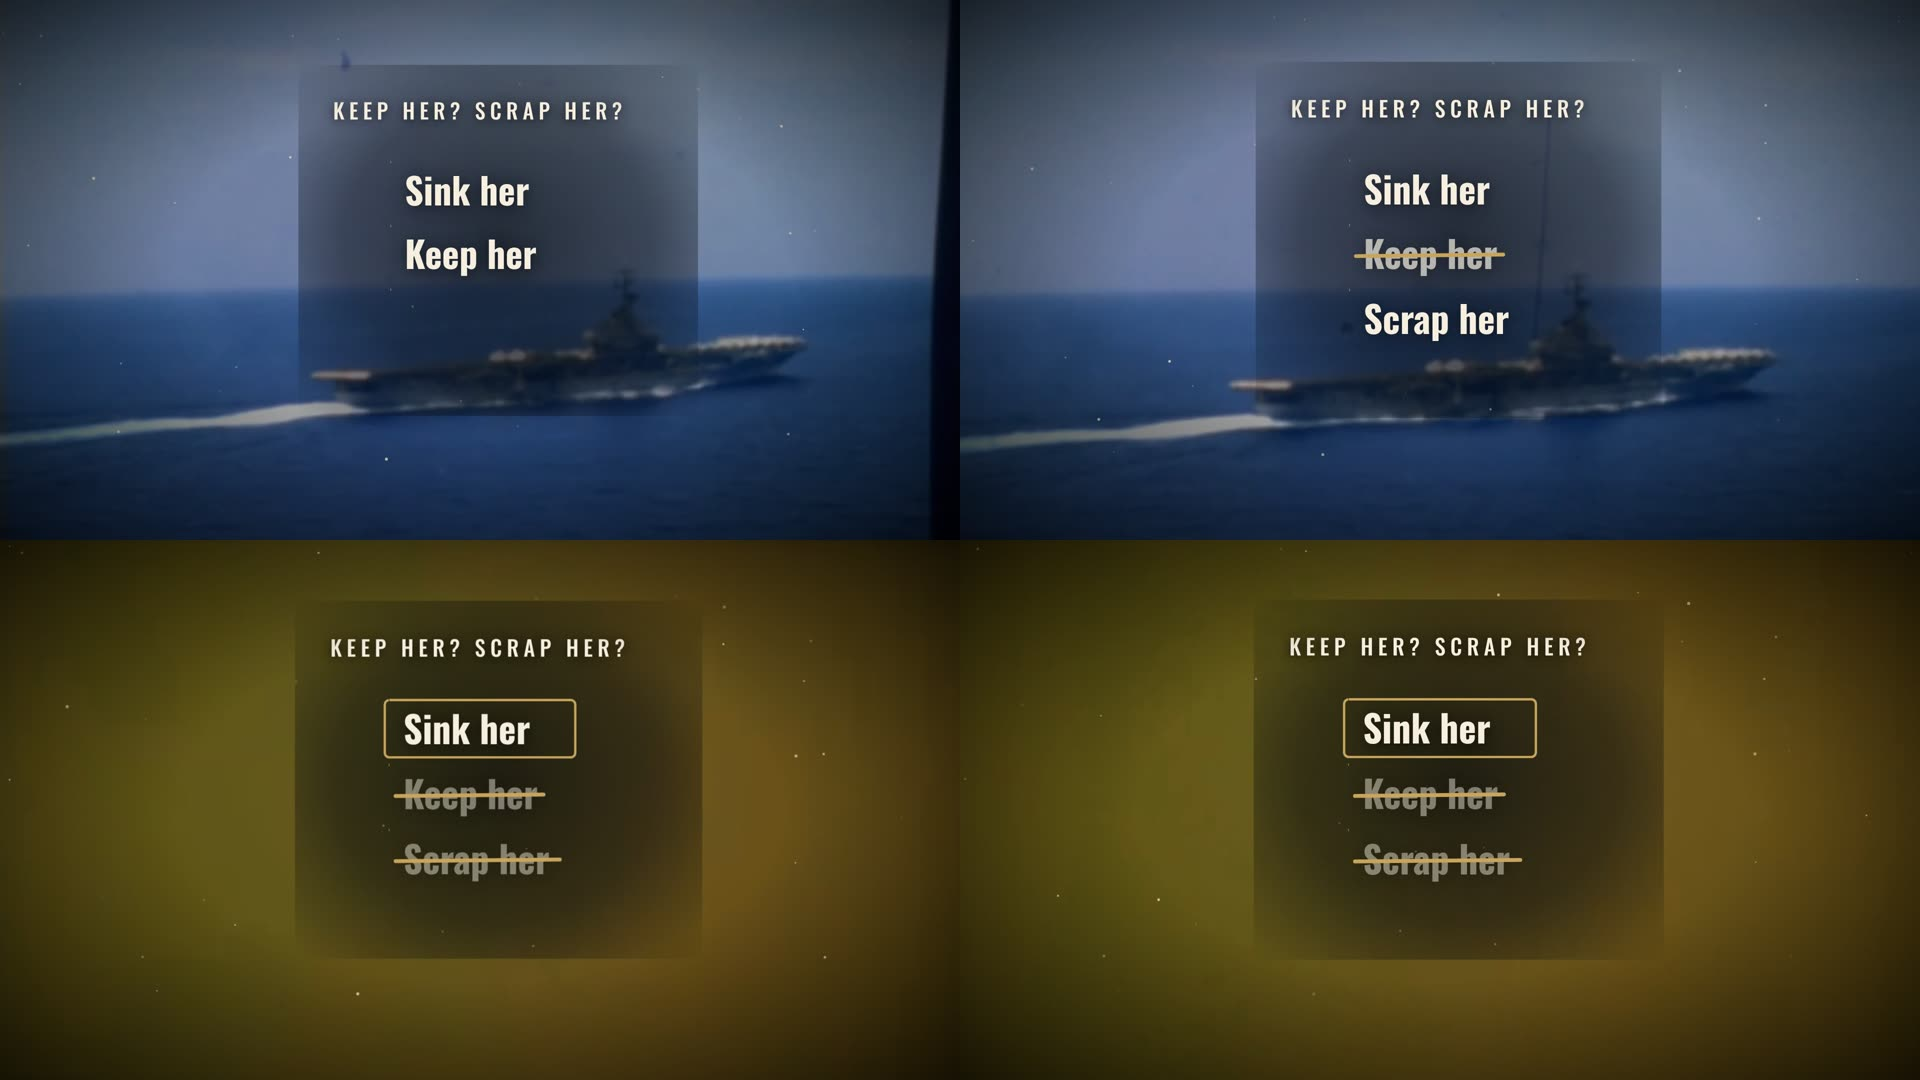
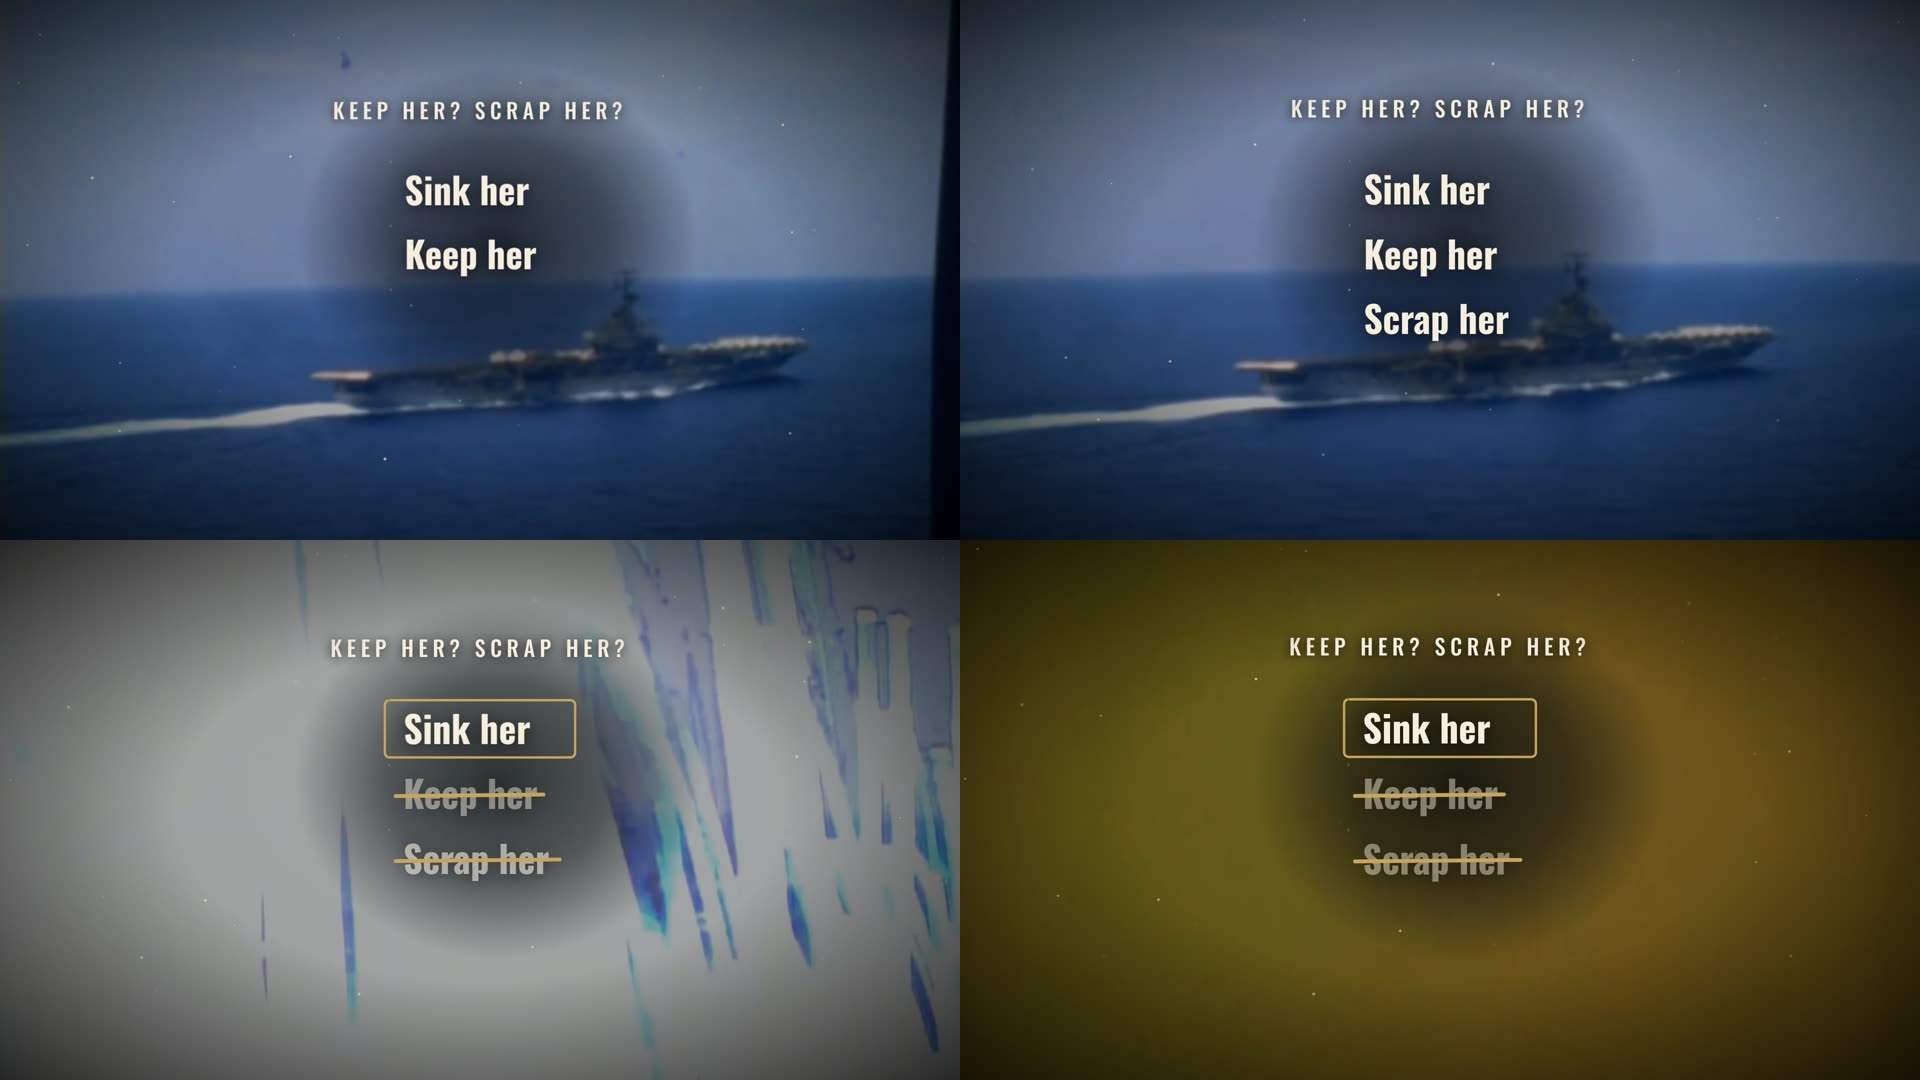
Options board: gold box only on the chosen row, held >= 1.5 s; no box on struck rows; no stray underline; scrim over moving bg clips
New item flag "chosen": the box lands after the last strike and holds to the shot end
(moved earlier with a warning if it would hold < 1.5 s). Title hairline is opt-in (hair:true).
Preview: kit/ship/preview/blocks/options_board_sheet.jpg (test chapter options_test.json).

Claude-Session: https://claude.ai/code/session_011uJnjASu3ekbFStPCneELr

diff --git a/templates/blocks/anim_options.py b/templates/blocks/anim_options.py
@@ -146,8 +146,8 @@ def build(ctx):
         elif it.get('chosen'):
             bat = ctx.t(box) if box is not None else max(at + .3, (last_strike + .4) if last_strike is not None else at + .3)
             if b - bat < 1.5:
-                early = max(at + .2, b - 1.5)
-                ctx.B.warn.append(f'{p}: chosen row "{it["text"]}" box would hold only {b - bat:.2f}s (< 1.5 s); moved to {early:.2f}s' + ('' if early <= b - 1.5 + 1e-6 else ' - still short: lengthen the shot'))
+                early = max(at + .2, (last_strike + .15) if last_strike is not None else 0, b - 1.5)
+                ctx.B.warn.append(f'{p}: chosen row "{it["text"]}" box would hold only {b - bat:.2f}s (< 1.5 s); moved to {early:.2f}s' + ('' if early <= b - 1.5 + 1e-6 else ' - still short: lengthen the shot or strike earlier'))
                 bat = early
         elif chosen:
             bat = None                       # another row is the answer: no box here

diff --git a/templates/TEMPLATES.md b/templates/TEMPLATES.md
@@ -195,7 +195,8 @@ Variants: `sea`, `ice`
 |---|---|
 | `beats` | list of beats: {"kind":"you","label":"you","label_at":T} / {"kind":"items","at":T,"items":[{"icon":"boat","label":"NO BOAT","at":T}]} / {"kind":"distance","at":T,"label":"100 yards","label_at":T}. "at" = when the beat (a cut + zoom) starts. Icons: boat, wetsuit, lifering, bottle, flame, phone, fish, rope, hand ... |
 | `cross` | items: draw a gold X on each item 0.3 s later (default true) |
-| `shore_label` | ice variant: text on the ice edge (default "ICE") |
+| `shore_label` | text on the pale shore (default "ICE") |
+| `shore` | "palm" (sea default: warm island) or "ice" (pale cold shore with shore_label; ice default). Use "ice" for any cold or inland scene: no palm trees in the Ice Age |
 
 ## scale_ruler
 
@@ -249,16 +250,21 @@ Variants: `roadmap`, `drop`, `final`, `final_wide`
 | `tiles` | roadmap: list of {"name":"North Atlantic","image":"thumb.jpg"} - every chapter, in order (image optional) |
 | `placed` | tiles already on the board: list of {"name","image","tier"} |
 | `reveal_at` | roadmap: time spec of the first tile (default 0.5 s) |
+| `glow` | roadmap: {"name":"Southern Ocean","at":T} - that tile gets a gold ring and lifts on its word (join.md: the next ocean glows on "south") |
 | `stagger` | roadmap: seconds between tiles (default 0.18), or give "reveal_times": [specs] |
 | `reveal_times` | roadmap: one time spec per tile |
 | `tile` | drop: {"name":"North Atlantic","image":"thumb.jpg"} |
 | `tier` | drop: tier the tile lands in (e.g. "Minutes") |
 | `drop_at` | drop: time spec of the verdict word (the thud) |
+| `note` | drop: small italic line next to the landed tile, e.g. "*in the water" |
+| `note_at` | drop: when the note shows (default 0.5 s after the drop) |
 | `slot_x` | drop: x of the landing spot (default: next free place in the row) |
 | `cursor` | drop: show the cursor (default true) |
 | `n_total` | drop: total chapters, picks the compact board when more than 6 (default 5) |
 | `add_tier_at` | drop: time spec. A new tier row (the FIRST entry of "tiers", or "new_tier") slides in on top of the board at this moment, then the tile drops into it (gap T2: the "Days" row at chapter 9). Pass "tiers" with the new tier first. |
 | `new_tier` | drop: name of the tier that slides in (default: first of "tiers") |
+| `verdict` | drop: big verdict word shown on the drop (about 12 % of frame height, Cormorant, warm white, gold underline; style review 04/07) |
+| `sting` | drop: "full" = music dips out 0.8 s before the word, riser, deep hit on the word (4 key verdicts only); "thud" = deep hit only (default when verdict is set) |
 | `highlight_row` | final: tier name whose row glows gold (default none) |
 | `highlight_at` | final: when the row glows (default 0.4 s) |
 | `highlight_tiles` | final: list of {"name":"Bering Sea","at":T} - the tile lifts and gets a gold ring on its word, soft click; stays lifted |
@@ -275,13 +281,15 @@ Variants: `baked`, `labeled`, `gauge`
 
 | parameter | what it does |
 |---|---|
-| `pin` | {"x":640,"y":330}  pin position in the 1280x720 picture (labeled variant) |
+| `pin` | {"x":640,"y":330,"track":[[t,x,y],...]}  pin position in the 1280x720 picture (labeled variant); track = positions over the clip seconds when the bake moves (Video 02 map jsons) |
 | `name` | place name, e.g. "North Atlantic" |
 | `name_at` | when the pin + name appear (time spec) |
 | `date` | bottom line, e.g. "LAST GLACIAL MAXIMUM · SEA LEVEL -120 M" (every variant) |
 | `date_at` | when the bottom line shows |
 | `gauge` | {"from":0,"to":-120,"at":"@four","dur":1.7,"x":930,"y":120,"label_ft":"(-400 ft)"}  sea-level gauge (gauge variant) |
 | `credits` | small credits line bottom right (default none; maps baked by the map-kit already have it) |
+| `pins` | [{"x":246,"y":240,"x0":251,"y0":245,"label":"","at":T}] many small gold pins that drift with the bake (pins_dur = bake seconds) |
+| `pins_dur` | seconds the pins take to drift from x0,y0 to x,y (default: the shot) |
 | `zoom` | [from,to] slow zoom, default [1.0,1.0] (the baked map already moves) |
 | `measure` | {"from":{"x":640,"y":210},"to":{"x":640,"y":520},"label":"1,000 km","at":"@thousand","dur":0.9,"label_side":"right"}  gold measure bar that draws between two points on a word (gap T8) |
 | `inset` | {"pin":{"lat":20,"lon":38.5},"corner":"tl"/"tr"/"bl"/"br","w":300,"at":0.3,"label":"ICE AGE ICE SHEETS"}  small world map with the Ice Age ice sheets and a gold pin on the place (rule 18, gap T10); for places far from the ice |
@@ -322,6 +330,7 @@ Variants: `question`, `card`, `end_screen`
 | `thanks` | end_screen: italic line on top (default "Thanks for watching") |
 | `subscribe` | end_screen: caps label under the subscribe circle (default "SUBSCRIBE") |
 | `fade_s` | end_screen: fade to black at the end, seconds (default 1.2) |
+| `slots` | end_screen: false = no video slots, only the thanks line and the subscribe circle in the middle (default true) |
 | `end_screen_s` | ignored (kept for old plans): use a separate end_screen shot |
 
 ## text_card
@@ -347,3 +356,209 @@ Variants: `word`, `pair`, `line`, `number`, `number_left`
 | `subline_at` | number: when the subline appears |
 | `count` | number: {"from":0,"to":-1.8,"decimals":1,"dur":1.2,"suffix":"°C"} counting number |
 | `dim` | number: dark shade "dk" (default) or "lt" |
+
+## anim_gauge
+
+Count-up gauge on green ink. "bars" = 2-4 horizontal bars (e.g. you vs the animal), each with an icon / line-art / image and a label; the hero bar (last, or "hero":true) counts ~1.4 s and lands with flash + gold ring + deep hit. "meter" = one tall meter with reference marks (e.g. conversation / jet engine) that fills to the value and lands the same way.
+
+Variants: `bars`, `meter`
+
+
+| parameter | what it does |
+|---|---|
+| `kicker` | small caps title top left, *word* = gold italic (e.g. "Bite force") |
+| `kicker_at` | when the kicker shows (default 0.2) |
+| `unit` | italic unit after every number (e.g. "psi") |
+| `decimals` | decimals of the numbers (default 0) |
+| `max` | value at the full bar / meter top (default: largest value) |
+| `items` | bars: [{"label":"YOU","value":160,"glyph":{"person":"you"} / {"shape":"croc"} / {"icon":"hand"} / {"image":"path.png"},"at":T,"count_at":T,"dur":1.4,"hero":true}] |
+| `value` | meter: the value counted to |
+| `label` | meter: caps label under the big number |
+| `glyph` | meter: optional glyph next to the big number (as items) |
+| `count_at` | meter: when the count starts (default 1.6) |
+| `dur` | meter: count length (default 1.4) |
+| `marks` | meter: reference marks [{"value":60,"label":"CONVERSATION","at":T}] |
+| `note` | italic comparison line at the bottom (e.g. "more than six times yours") |
+| `note_at` | when the note shows (default land + 1.3) |
+| `circle` | true = a gold marker circle is drawn round the hero number after the land |
+| `circle_at` | when the circle draws (default land + 0.8) |
+
+## anim_lockon
+
+Lock-on hook scene: "jungle" = night jungle (parallax trees, vines, fronds, light rays, mist, fireflies); "river" = night river bank (far tree line, reeds, water with glints, eyes on the water surface); "eyes_room" = dark room that fills with blinking eyes. The figure walks in, eyes appear, gold brackets lock on with a held beep, kicker line, heartbeat rings, optional animal slides in.
+
+Variants: `jungle`, `river`, `eyes_room`
+
+
+| parameter | what it does |
+|---|---|
+| `who` | the target: you / explorer (head torch beam) / scientist / hunter / honey / worker / child (default you) |
+| `target_x` | where the figure stops (x px, default 400 / 330) |
+| `walk_dur` | walk-in seconds (default up to the lock; 0 = already standing) |
+| `eyes_at` | when the eyes open (default 1.8) |
+| `eyes` | [x,y] of the eyes (default by variant) |
+| `lock_at` | when the brackets snap (default 3.2) |
+| `beep` | held beep length in s (default 1.0) |
+| `kicker` | caps line, *word* = gold italic (default "IT ALREADY *sees* YOU"; "" = none) |
+| `kicker_at` | default lock + 0.45 |
+| `animal` | optional {"image":"path.png"} / {"shape":"croc"} (+ "w": width px, "y": ground y) sliding in from the right |
+| `animal_at` | default lock + 1.8 |
+| `heart` | true = heartbeat rings speeding up after the lock (heart sound), or a list of times |
+| `hud` | small place/time caption top left (e.g. "SUNDARBANS · 02:14 AM") |
+| `distance` | optional readout {"from":38,"to":12,"unit":"m","label":"DISTANCE","at":T,"dur":1.9} |
+| `rain` | true = light rain (jungle) |
+
+## anim_options
+
+"What would you do?" spine: title + rows that click in, gold box on the current row, gold strike-through on finished rows, verdict line. "list" = centred list; a row's mini scene replaces the list for its time, then the list comes back. "side" = list on the left, mini scenes play in a gold-framed panel on the right.
+
+Variants: `list`, `side`
+
+
+| parameter | what it does |
+|---|---|
+| `title` | caps title, *word* = gold italic (default "What would you do?") |
+| `title_at` | default 0.25 |
+| `items` | [{"text":"Run","at":T,"box_at":T,"strike_at":T,"scene":{"type":"run/climb/hide/swim/stand","at":T,"dur":3,"label":"TIGERS RUN 60 KM/H","animal":{"image":"tiger.png"} / {"shape":"croc"}}}] |
+| `numbered` | true = "1. Run" (default true) |
+| `chosen` | item field: true = the final answer; ONLY this row gets the gold box (after the last strike, held to the shot end, >= 1.5 s). Struck rows never get a box. |
+| `hair` | true = gold hairline under the title (default false: it read as a stray underline) |
+| `scrim` | dark ellipse behind the list for a moving bg_clip (default: on when the shot has bg_clip) |
+| `verdict` | italic line at the end (e.g. "Bad plan.") |
+| `verdict_at` | when the verdict shows |
+
+## anim_xray
+
+Gold X-ray mode: "human" = the stick figure "you" switches to a gold X-ray body; "animal" = a line-art animal (croc_gfx shapes: croc, monitor, theropod, fish ...) or a tinted image as a gold X-ray. One organ glows and pulses (heart beats with the heart sound, lungs breathe), a scan line sweeps, readouts pop in with leader lines.
+
+Variants: `human`, `animal`
+
+
+| parameter | what it does |
+|---|---|
+| `organ` | heart / lungs / brain / gut / gland / dot (default heart) |
+| `organ_pos` | animal: [fx, fy] = share of the length from the tail end, share of the height above the belly |
+| `organ_size` | organ radius px (default by variant) |
+| `organ_label` | caps label next to the organ (e.g. "SALT GLANDS") |
+| `organ_at` | when the organ lights up (default xray_at + 0.5) |
+| `xray_at` | human: when the normal figure turns into the X-ray (default 0.6; 0 = X-ray from the start) |
+| `who` | human: the role before the switch (you / scientist / ...) |
+| `shape` | animal: croc_gfx shape (default croc) |
+| `image` | animal: optional image path drawn gold-tinted instead of the shape |
+| `animal_w` | animal: length px (default 980) |
+| `bpm` | heart beat rate (default 70; beats get the heart sound) |
+| `heart_sound` | false = no heart sound |
+| `scan` | false = no scan line |
+| `readouts` | [{"text":"HEART RATE *40 bpm*","at":T}] labels with leader lines |
+| `kicker` | caps title top left, *word* = italic |
+| `kicker_at` | default 0.2 |
+| `line` | italic line at the bottom |
+| `line_at` | when the line shows |
+
+## croc_gfx
+
+Video 02 graphics: "size_chart" = rivals and our 5 m croc in lanes at true scale next to a 1.8 m human, metre grid, ruler + label per animal (rule 54); "lineup" = rival silhouettes in a row that fade out one by one; "footprints" = three-toed prints walk along a river bank; "heads" = phytosaur vs crocodile head profiles (nostril circles or a "not related" sign); "count" = N different crocodilian silhouettes pop in with a big number; "tooth_banana" = a Deinosuchus tooth next to a banana on a cm ruler; "teeth" = a blade-like serrated tooth next to a cone tooth; "debate" = two Spinosaurus silhouettes, wading vs swimming, with a big "?".
+
+Variants: `size_chart`, `lineup`, `footprints`, `heads`, `count`, `tooth_banana`, `teeth`, `debate`
+
+
+| parameter | what it does |
+|---|---|
[1 lines of base64/hex data omitted]
+| `human_m` | size_chart: human height (default 1.8) |
+| `human_label` | size_chart: label under the human (default "human") |
+| `kicker` | small caps line top left |
+| `note` | big italic gold line top right (e.g. "8x heavier") |
+| `note_at` | when the note shows |
+| `line` | italic line at the bottom (lineup / footprints / heads / count) |
+| `line_at` | when the line shows |
+| `prints_at` | footprints: time of the first print (prints follow every 0.35 s) |
+| `label` | footprints / count: caps label |
+| `mode` | heads: "nostrils" (circles land on nostril_at / tip_at) or "unrelated" (a not-equal sign lands on line_at) |
+| `nostril_at` | heads: when the circle on the phytosaur nostrils lands |
+| `tip_at` | heads: when the circle on the croc snout tip lands |
+| `n` | count: how many silhouettes (default 7) |
+| `number_at` | count: when the big number lands |
+| `stagger` | count / lineup: seconds between silhouettes |
+| `a_at` | tooth_banana / teeth / debate: when the first object shows |
+| `b_at` | tooth_banana / teeth / debate: when the second object (or the "?") shows |
+| `a_label` | teeth / debate: label of the left object |
+| `b_label` | teeth / debate: label of the right object |
+
+## croc_stick
+
+Video 02 stick gags with the line-art croc: checklist (icons on their words), run_away (person runs from a labelled millipede), bite_car (car lands on the tooth row + number), mud_timer (croc in a mud pool + the timer bar), tally (two counters), lizard_car (lizard grows to car length), swim_route (dotted sea route between two river mouths + distance), temp_bar (body temperature falls in steps, labels on words), days_bar (the timer bar for a cold snap; can run off the edge), wrap (snake loops round the croc, two lengths), thermo (thermometer rises into the danger zone + number), eight (eight small crocs = one giant), roll (croc tries to roll, "?"), bite_bars (bar chart of two bite forces), eyes (only the eyes above water while a giant walks past on the bank), buffet (a giant croc with a fork, a small croc served on a plate).
+
+Variants: `checklist`, `run_away`, `bite_car`, `mud_timer`, `tally`, `lizard_car`, `swim_route`, `temp_bar`, `days_bar`, `wrap`, `thermo`, `eight`, `roll`, `bite_bars`, `eyes`, `buffet`
+
+
+| parameter | what it does |
+|---|---|
+| `kicker` | small caps line (top) |
+| `number` | big number |
+| `unit` | italic unit after the number |
+| `number_at` | when the number lands |
+| `line` | italic line |
+| `line_at` | when the italic line shows |
+| `label` | caps / italic label of the main object |
+| `label_at` | when the label shows |
+| `items` | checklist: [{"icon":"thermometer","label":"TEMPERATURE","at":T}]; temp_bar: [{"label":"can't warm up","at":T}]; bite_bars: [{"label":"OUR CROC","value":16000,"max":null,"text":"16,000 N","at":T}] |
+| `labels` | mud_timer / days_bar: the four timer-bar labels |
+| `from_stop` | timer start stop 0-3 |
+| `to_stop` | timer end stop 0-3, or 4 = run off the right edge |
+| `move_at` | when the marker / croc / snake / lizard starts moving |
+| `move_dur` | how long the move takes |
+| `a` | tally: {"label":"AMERICAN CROCODILES","from":0,"to":151,"at":T} |
+| `b` | tally: {"label":"ALLIGATORS","value":0} |
+| `at2` | second beat (run_away: "(probably)"; roll: "?") |
+
+## v02_anim_a
+
+V02 fix-pass scenes, batch A: "s01_checks" = the four checks as a list spine with icons + gold box (R05); "s02_ladder" = the tier ladder: our croc steps down Dominate > Establish > Survive (R09); "s03_bite" = bite-force bars, amphibians stop short, our croc counts to 16,414 N (C01-17); "s04_fire" = coal-swamp fires, the croc slides into the water (C01-21); "s05_mud" = croc waits in the mud, HOBBIES card, then WATER | BANK split (C02-21); "s06_temp" = thermometer counts to 14 C, frost below the line, empty riverbank (C03-14).
+
+Variants: `s01_checks`, `s02_ladder`, `s03_bite`, `s04_fire`, `s05_mud`, `s06_temp`
+
+
+| parameter | what it does |
+|---|---|
+| `at` | dict of beat name -> time spec (override the default beats of the variant; see BEATS in the module) |
+| `value` | s03_bite: our bite value (default 16414) |
+| `unit` | s03_bite: unit (default N) |
+
+## v02_anim_b
+
+Video 02 fix pass, batch B custom scenes (PLAN.md S07-S13): "xray_palate" = croc head X-ray, bony roof + throat flap, holds prey underwater and breathes (S07); "xray_salt" = drying creek, backlit giants, our croc leaves along a gold path, X-ray salt glands (S08); "lake_lock" = Turkana lakeshore, gold ticks over the herds, camera to the water, lock-on brackets find the giant (S09); "scientist" = scientist + clipboard, ? card, shrug, quote types in, pan to the early humans (S10); "xray_hippo" = cold Thames, hippo vs croc in gold X-ray, heat / no heat, three gold X (S11); "sea_options" = way-out list, escape by sea, North Sea in winter mini scene, strike (S12); "body_temp" = basking croc, body-temperature gauge lands 32-33 C, dive + energy bars drain, croc hides in the shade (S13).
+
+Variants: `xray_palate`, `xray_salt`, `lake_lock`, `scientist`, `xray_hippo`, `sea_options`, `body_temp`
+
+
+| parameter | what it does |
+|---|---|
+| `at` | optional dict of beat times {"name": time spec} overriding the word-based defaults of the variant (see the BEATS table in the code) |
+| `kicker` | optional caps kicker override (*word* = gold italic) |
+
+## v02_anim_c
+
+Video 02 fix-pass scenes, batch C (S14-S19 + Kem Kem quote). Beats are fixed to the V02 narration words. hides_eats passes its params to anim_options/list.
+
+Variants: `special_move`, `death_roll`, `bite_gauge`, `not_noticed`, `hides_eats`, `cold_enemy`, `kemkem_quote`
+
+
+| parameter | what it does |
+|---|---|
+| `ours` | bite_gauge: our bite (default 16414) |
+| `value` | bite_gauge: Purussaurus bite (default 50000, shown with "+") |
+| `unit` | bite_gauge: default N |
+| `max` | bite_gauge: value at the full bar (default 52000) |
+| `row_at` | bite_gauge: Purussaurus row |
+| `count_at` | bite_gauge: count start |
+| `land_at` | bite_gauge: land |
+| `items` | hides_eats: as anim_options |
+| `title` | hides_eats: as anim_options |
+| `title_at` | hides_eats: as anim_options |
+| `numbered` | hides_eats: as anim_options |
+| `subline` | hides_eats: italic line at the bottom ("in a river full of *fish*") |
+| `subline_at` | hides_eats: when it shows |
+| `thicken_at` | hides_eats: when the fish shoal thickens |
+| `glow_at` | hides_eats: when all rows glow |
+| `copies_at` | bite_gauge: times of the three copies of our bar |
